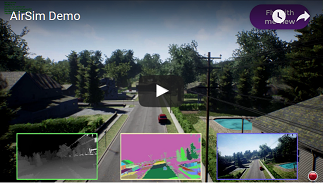
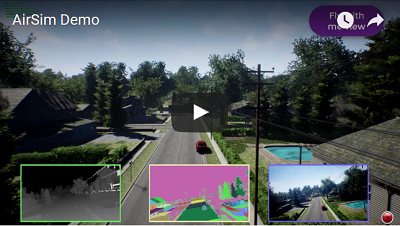
all images same size in readme

diff --git a/README.md b/README.md
@@ -37,7 +37,7 @@ Follow the steps above to build and set up the Unreal environment. Plugin your P
 ## Gathering training data
 There are two ways you can generate training data from AirSim for deep learning. The easiest way is to simply press the record button on the lower right corner. This will start writing pose and images for each frame. 
 
-![record screenshot](docs/images/record_data3.png)
+![record screenshot](docs/images/record_data.png)
 
 There is a [Log Viewer](docs/log_viewer.md) provided that can visualize the streams of data that are published by the simulator (and your drone).
 
